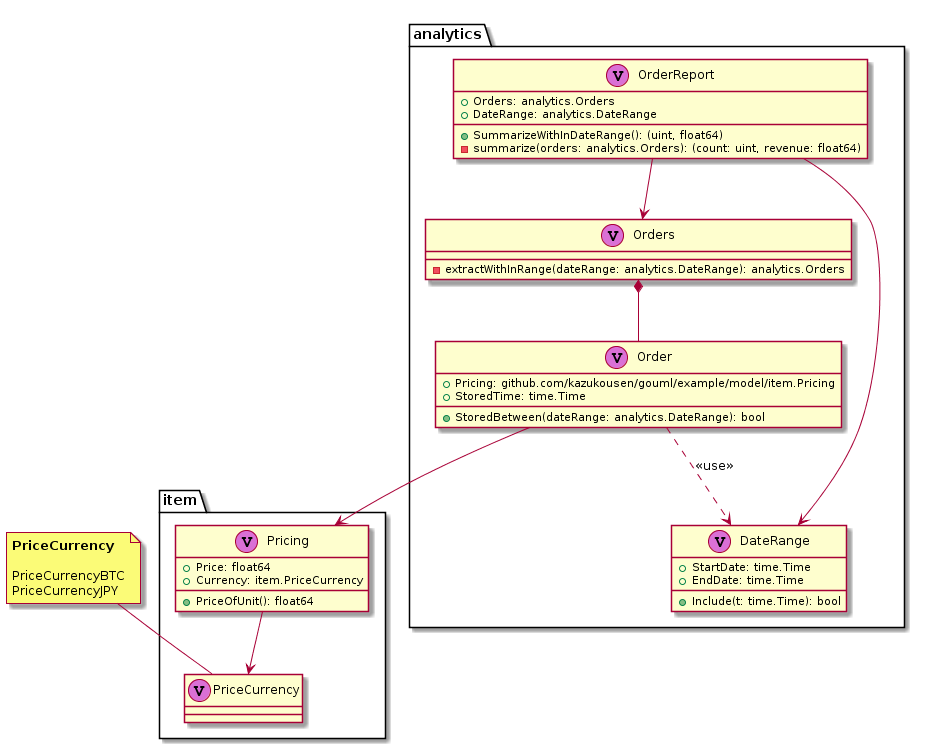
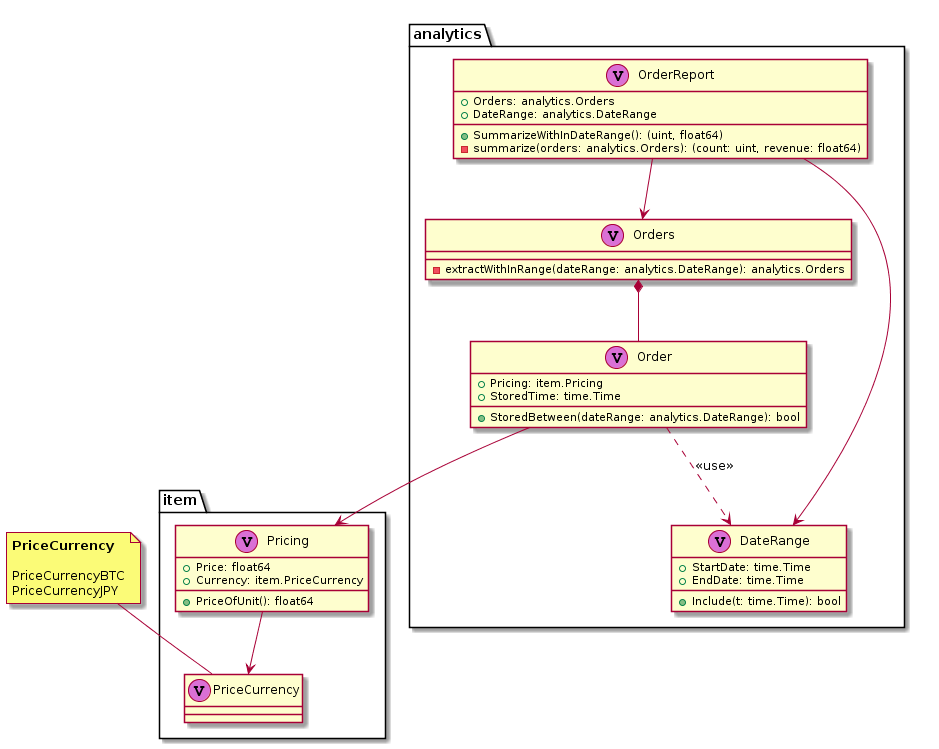
fix

Changed region(s): [[0.0, 0.0307, 0.9989, 1.0], [0.7265, 0.6142, 0.787, 0.6449], [0.8778, 0.6142, 0.9081, 0.6449]]

diff --git a/internal/gouml/model.go b/internal/gouml/model.go
@@ -42,8 +42,8 @@ func (ms Models) writeImplements(buf *bytes.Buffer, depth int) {
 }
 
 type model struct {
-	obj *types.TypeName
-	id
+	obj     *types.TypeName
+	id      string
 	kind    modelKind
 	field   field
 	methods methods
@@ -56,7 +56,7 @@ func (m *model) build() {
 
 	// get type
 	typ := obj.Type()
-	m.full = typ.String()
+	m.id = extractName(typ.String())
 	// TODO: obj.IsAlias() is true
 
 	// named type (means user-defined class in OOP)
@@ -102,7 +102,7 @@ func (m *model) build() {
 }
 
 func (m model) as() string {
-	return m.id.getID()
+	return m.id
 }
 
 func (m model) writeClass(buf *bytes.Buffer) {
@@ -111,11 +111,11 @@ func (m model) writeClass(buf *bytes.Buffer) {
 	newline(buf, 0)
 	// package
 	buf.WriteString(`package "`)
-	buf.WriteString(m.pkg())
+	buf.WriteString(extractPkgName(id))
 	buf.WriteString(`" {`)
 	// class
 	newline(buf, 1)
-	buf.WriteString(m.kind.Printf(m.name(), id))
+	buf.WriteString(m.kind.Printf(extractTypeName(id), id))
 	if m.field.size() > 0 || len(m.methods) > 0 {
 		buf.WriteString(` {`)
 		// fields
@@ -131,6 +131,7 @@ func (m model) writeClass(buf *bytes.Buffer) {
 
 func (m model) writeDiagram(buf *bytes.Buffer, ex exists) {
 	from := m.as()
+
 	newline(buf, 0)
 	m.field.writeDiagram(buf, ex, from, 1)
 
@@ -139,10 +140,12 @@ func (m model) writeDiagram(buf *bytes.Buffer, ex exists) {
 
 	newline(buf, 0)
 	if wrap := m.wrap; wrap != nil {
-		to := id{full: wrap.String()}.getID()
-		buf.WriteString(from)
-		buf.WriteString(" *-- ")
-		buf.WriteString(to)
+		to := extractName(wrap.String())
+		if _, ok := ex[to]; ok {
+			buf.WriteString(from)
+			buf.WriteString(" *-- ")
+			buf.WriteString(to)
+		}
 	}
 }
 
@@ -167,7 +170,7 @@ func (f field) WriteTo(buf *bytes.Buffer, depth int) {
 		buf.WriteString(exportedIcon(v.Exported()))
 		buf.WriteString(v.Name())
 		buf.WriteString(": ")
-		buf.WriteString(v.Type().String())
+		buf.WriteString(extractName(v.Type().String()))
 	}
 }
 
@@ -236,7 +239,7 @@ func (m method) WriteTo(buf *bytes.Buffer, depth int) {
 			buf.WriteString(", ")
 		}
 		v := param.At(i)
-		name, typ := v.Name(), v.Type().String()
+		name, typ := v.Name(), extractName(v.Type().String())
 		buf.WriteString(name)
 		buf.WriteString(": ")
 		buf.WriteString(typ)
@@ -256,7 +259,7 @@ func (m method) WriteTo(buf *bytes.Buffer, depth int) {
 			buf.WriteString(", ")
 		}
 		v := res.At(i)
-		name, typ := v.Name(), v.Type().String()
+		name, typ := v.Name(), extractName(v.Type().String())
 		if name != "" {
 			buf.WriteString(name)
 			buf.WriteString(": ")

diff --git a/internal/gouml/utils.go b/internal/gouml/utils.go
@@ -19,44 +19,20 @@ func extractName(full string) string {
 	}
 	return full
 }
-
-type exists map[string]struct{}
-
-type id struct {
-	full string
-}
-
-func (id id) getID() string {
-	pkg, name := id.split()
-	return pkg + "." + name
-}
-func (id id) pkg() string {
-	pkg, _ := id.split()
-	return pkg
-}
-
-func (id id) name() string {
-	_, name := id.split()
+func extractPkgName(name string) string {
+	if strings.Contains(name, ".") {
+		parts := strings.Split(name, ".")
+		name = parts[len(parts)-2]
+	}
 	return name
 }
 
-func (id id) split() (string, string) {
-	full := id.full
-	if strings.Contains(id.full, "/") {
-		parts := strings.Split(id.full, "/")
-		full = parts[len(parts)-1]
-	}
-	parts := strings.Split(full, ".")
-	var pkg string
-	var name string
-	switch {
-	case len(parts) > 2:
-		pkg = parts[len(parts)-2]
+func extractTypeName(name string) string {
+	if strings.Contains(name, ".") {
+		parts := strings.Split(name, ".")
 		name = parts[len(parts)-1]
-	case len(parts) == 2:
-		pkg = parts[0]
-		name = parts[1]
 	}
-
-	return pkg, name
+	return name
 }
+
+type exists map[string]struct{}

diff --git a/internal/gouml/note.go b/internal/gouml/note.go
@@ -7,7 +7,7 @@ import (
 )
 
 // Notes ...
-type Notes map[id]Note
+type Notes map[string]Note
 
 // Note ...
 type Note []*types.Const
@@ -15,9 +15,7 @@ type Note []*types.Const
 // WriteTo ...
 func (ns Notes) WriteTo(buf *bytes.Buffer) {
 	newline(buf, 0)
-	for id, n := range ns {
-		// generate id
-		to := id.getID()
+	for to, n := range ns {
 		from := "N_" + strings.Replace(to, ".", "_", -1)
 
 		// write header
@@ -28,7 +26,7 @@ func (ns Notes) WriteTo(buf *bytes.Buffer) {
 			// write title
 			newline(buf, 1)
 			buf.WriteString("<b>")
-			buf.WriteString(id.name())
+			buf.WriteString(extractTypeName(to))
 			buf.WriteString("</b>\n")
 
 			// write elements

diff --git a/internal/gouml/gouml.go b/internal/gouml/gouml.go
@@ -46,7 +46,7 @@ func Gen(baseDir, out string) error {
 		// declared constant
 		case *types.Const:
 			if named, _ := obj.Type().(*types.Named); named != nil {
-				id := id{full: named.String()}
+				id := extractName(named.String())
 				notes[id] = append(notes[id], obj)
 			}
 		}
